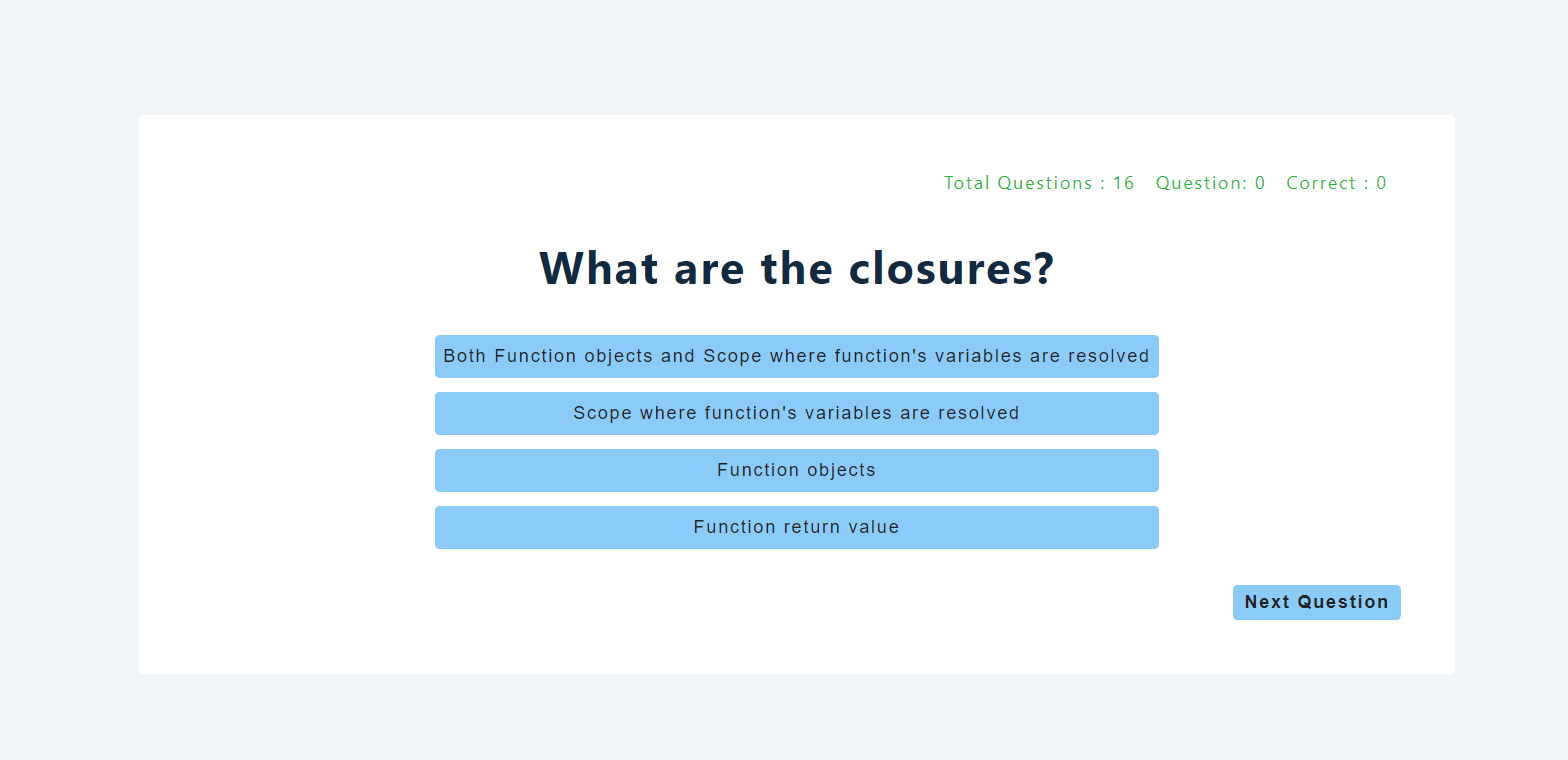
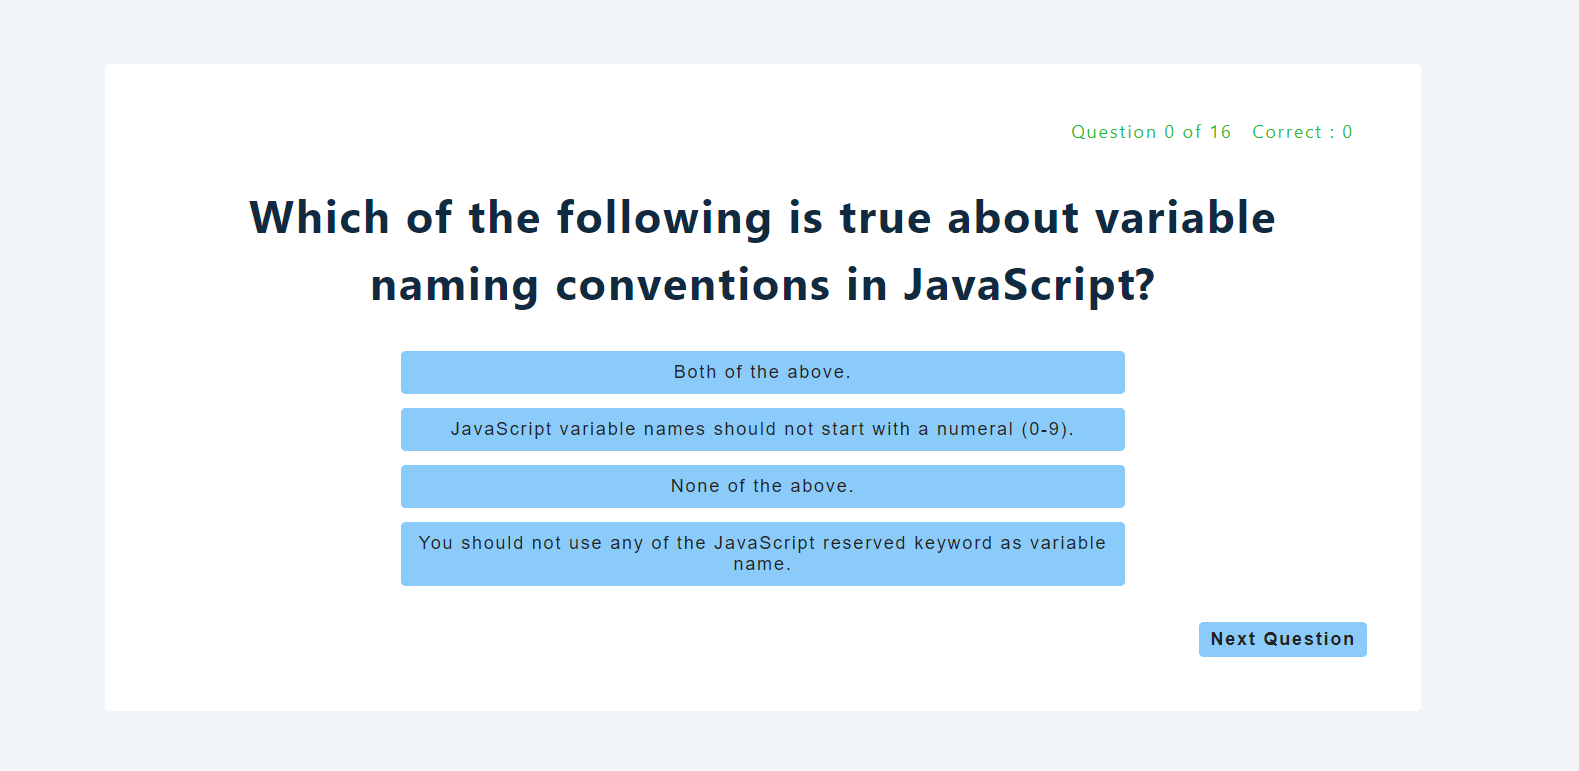
updated

Changed region(s): [[0.1562, 0.2421, 0.8125, 0.7868], [0.75, 0.7566, 0.9062, 0.8776], [0.6875, 0.1513, 0.8438, 0.1816]]

diff --git a/src/App.js b/src/App.js
@@ -37,8 +37,8 @@ function App() {
       <section className='quiz'>
 
         <p className='correct-answers'>
-          Total Questions : {questions.length} &nbsp;
-          Question: {index} &nbsp;
+
+          Question {index} of {questions.length} &nbsp;
           Correct : {correct} &nbsp;
 
         </p>

diff --git a/src/index.css b/src/index.css
@@ -189,8 +189,7 @@ main {
 .correct-answers {
   font-size: 1rem;
   margin-bottom: 2rem;
-  text-align: right;
-  text-transform: capitalize;
+  text-align: right;  
   letter-spacing: var(--spacing);
   color: var(--clr-green-dark);
 }
